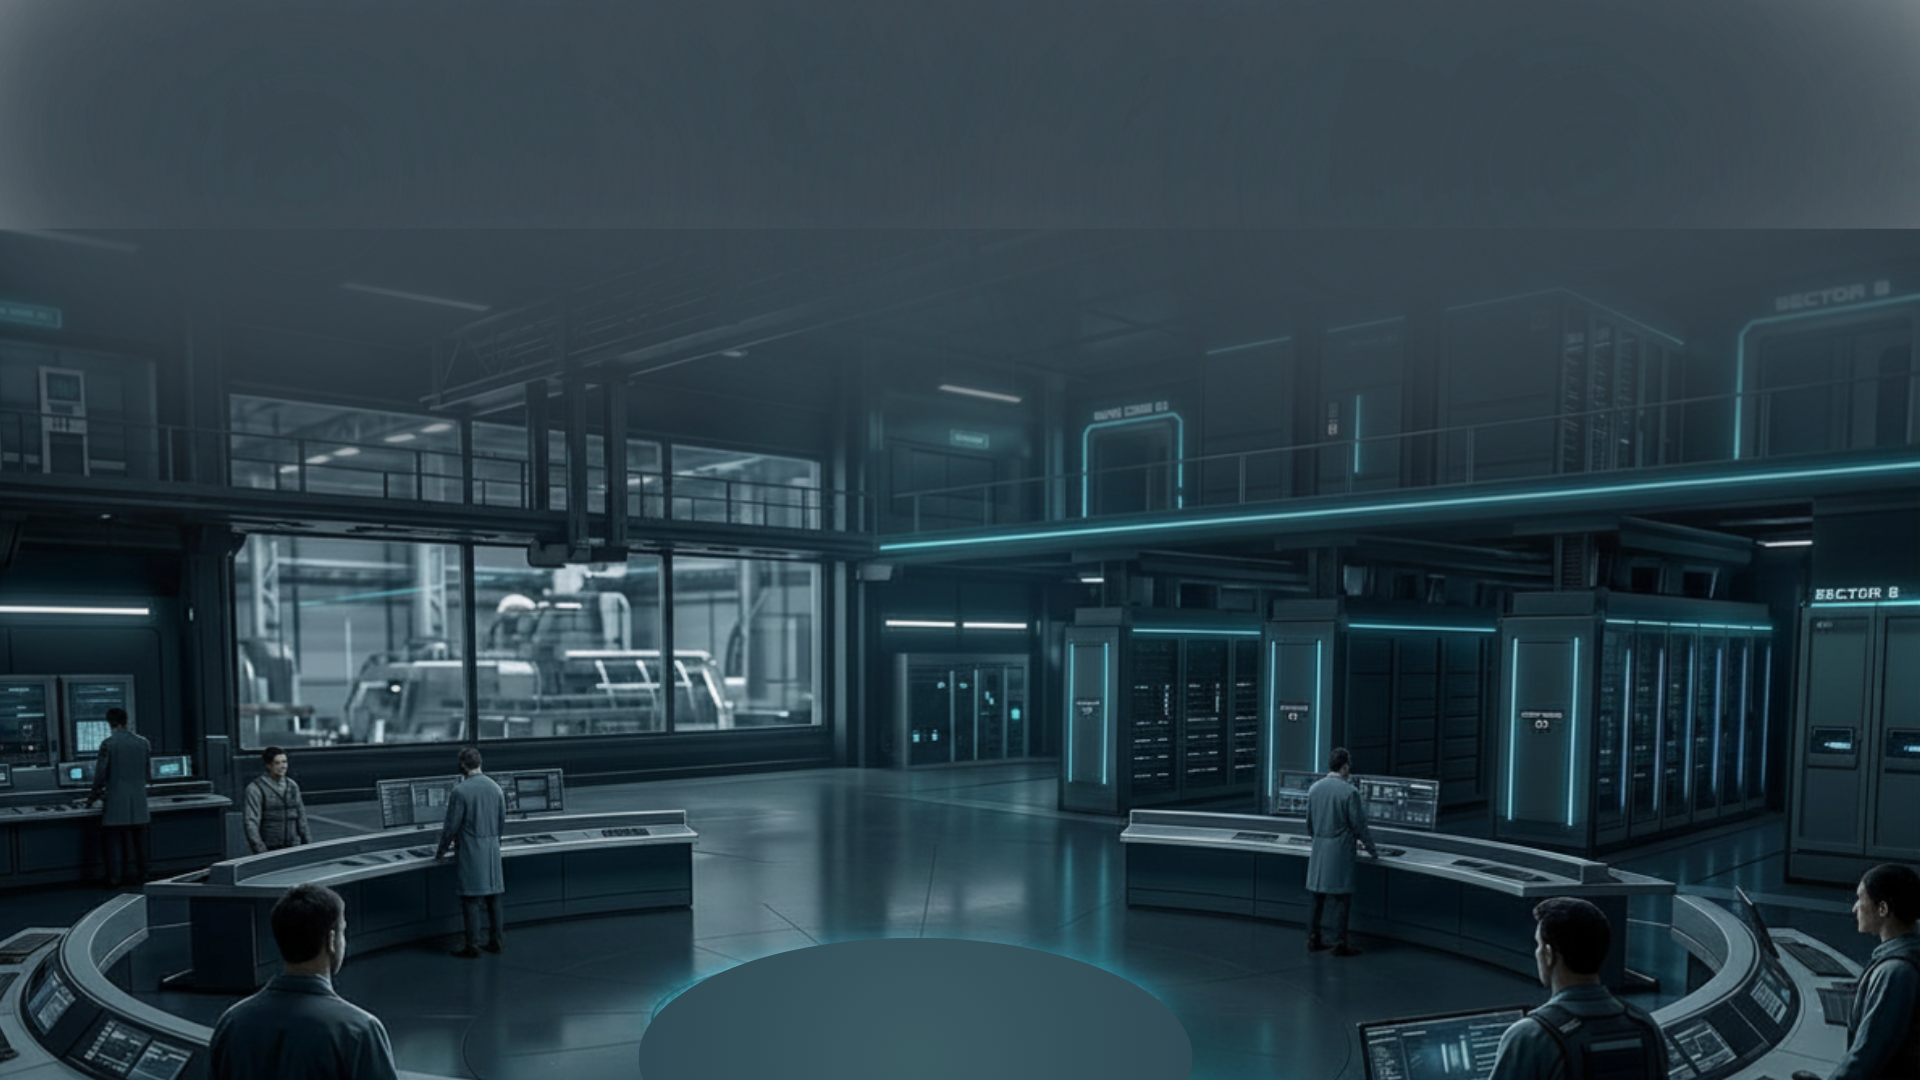
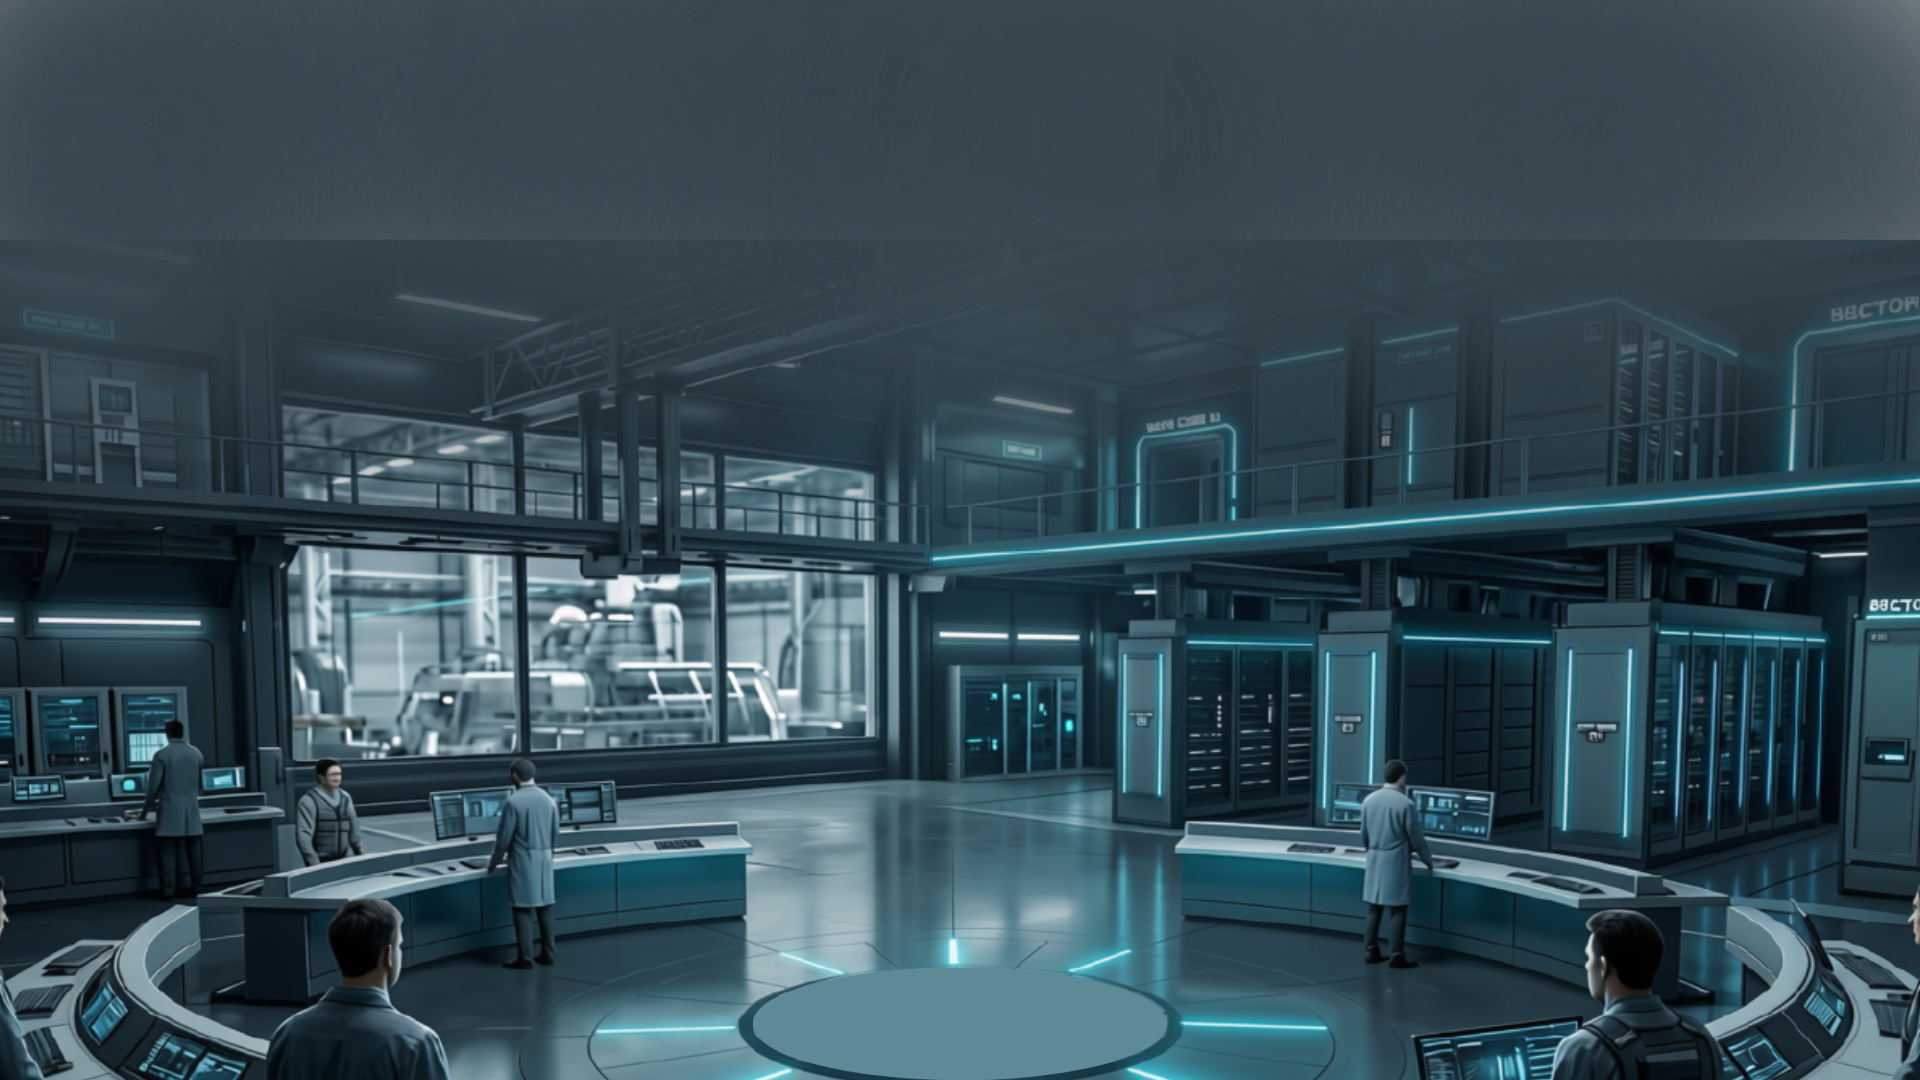
trocando imagem no app.tsx

diff --git a/src/App.tsx b/src/App.tsx
@@ -252,7 +252,7 @@ function App() {
           backgroundSize: "cover",
           backgroundPosition: "center bottom",
           backgroundRepeat: "no-repeat",
-          opacity: 0.25,
+          opacity: 0.3,
           filter: "brightness(0.7) saturate(1.2)",
         }}
       />